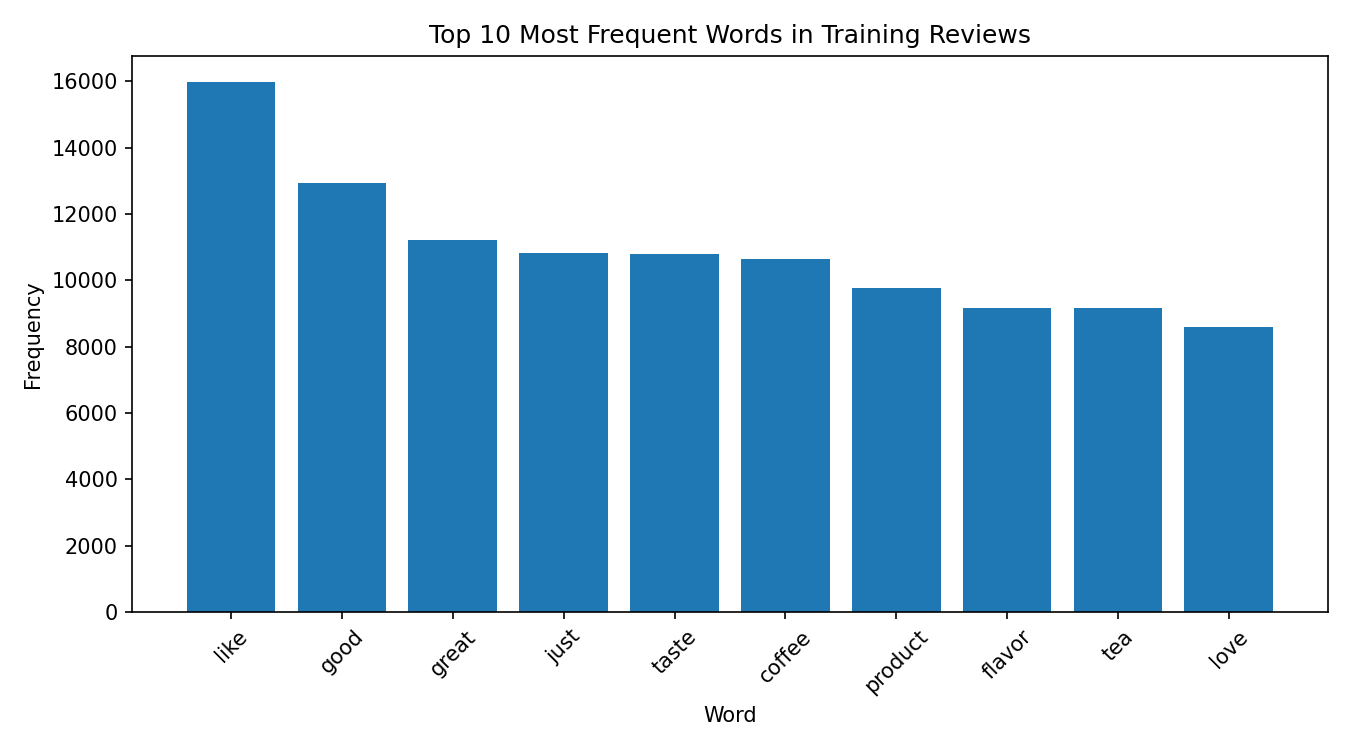
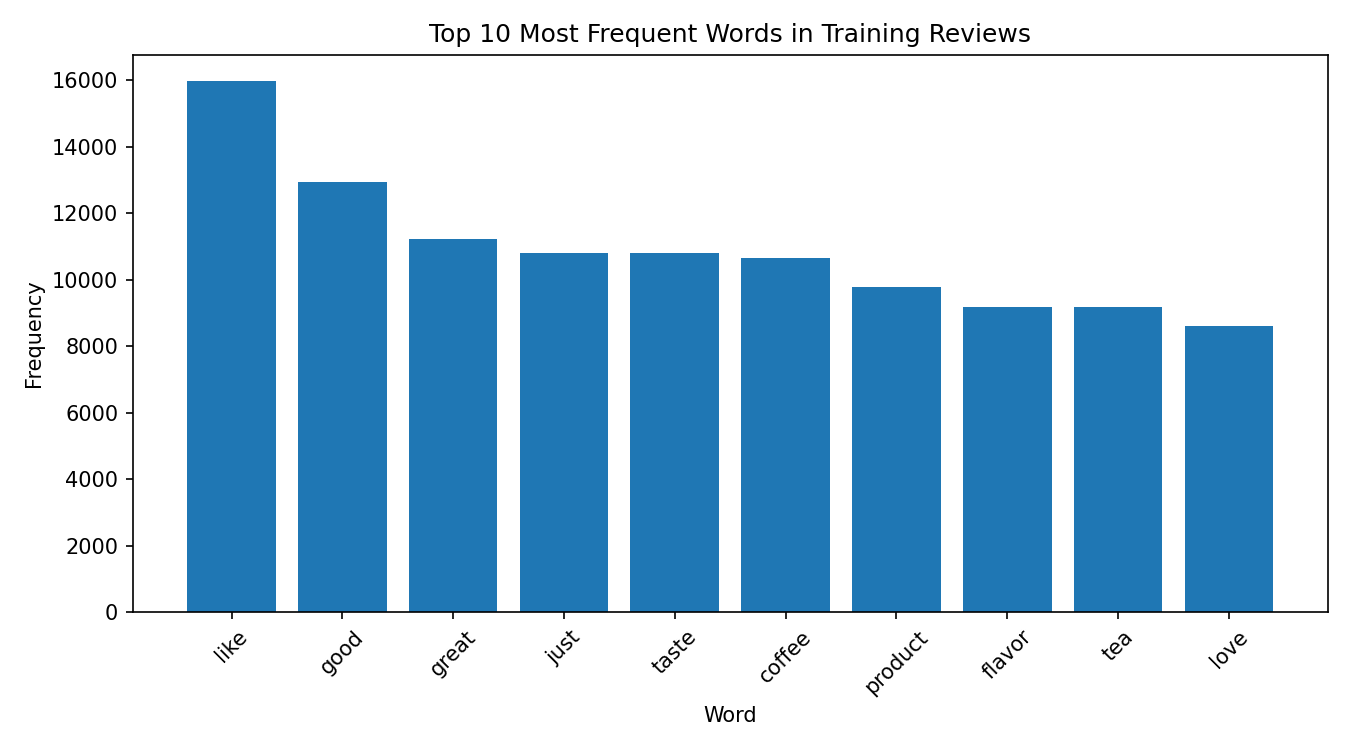
Changed lines where if it is creating new data to be used it saves it in the 'data' folder'
'

diff --git a/notebooks/preprocess.py b/notebooks/preprocess.py
@@ -4,7 +4,7 @@ import pandas as pd
 # Loads the sample from make_sample.py, then produces and turns it into a labeled dataset
 # for our binary sentiment classification (Positive vs. Negative)
 
-df = pd.read_csv('group_sample_seed42.csv')
+df = pd.read_csv('../data/group_sample_seed42.csv')
 print('Original sample:', len(df))
 
 df = df.dropna(subset=['Text', 'Score'])
@@ -12,7 +12,7 @@ df = df.drop_duplicates(subset=['UserId', 'ProductId', 'Text'])
 df = df[df['Score'] != 3].copy()
 
 df['Sentiment'] = (df['Score'] >= 4).astype(int)
-df.to_csv('cleaned_reviews.csv', index=False)
+df.to_csv('../data/cleaned_reviews.csv', index=False)
 print('Cleaned reviews:', len(df))
 print('Positive:', (df['Sentiment'] == 1).sum())
 print('Negative:', (df['Sentiment'] == 0).sum())

diff --git a/notebooks/make_sample.py b/notebooks/make_sample.py
@@ -1,7 +1,7 @@
 import pandas as pd
 
 #Using the random seed 42 and samples 50000, then writes sample to a new CSV
-df = pd.read_csv('Reviews.csv')
+df = pd.read_csv('../data/Reviews.csv')
 sample = df.sample(n=50000, random_state=42)
-sample.to_csv('group_sample_seed42.csv', index=False)
+sample.to_csv('../data/group_sample_seed42.csv', index=False)
 print('Saved group_sample_seed42.csv:', len(sample), 'reviews')

diff --git a/notebooks/feature_engineering.py b/notebooks/feature_engineering.py
@@ -11,7 +11,7 @@ from sklearn.feature_extraction.text import CountVectorizer, TfidfVectorizer
 
 # Inputs: cleaned_reviews.csv produced by preprocess.py
 # All modelers must reuse these exact train/test splits.
-df = pd.read_csv('cleaned_reviews.csv')
+df = pd.read_csv('../data/cleaned_reviews.csv')
 os.makedirs('outputs', exist_ok=True)
 
 def clean_text(text):

diff --git a/notebooks/README_DATA_ENGINEERING.md b/notebooks/README_DATA_ENGINEERING.md
@@ -9,6 +9,7 @@ Reproduce using the same seed, preprocessing, split, and vocabulary as the model
    The original `make_sample.py` / `preprocess.py` / `feature_engineering.py` scripts produce identical outputs, but they expect `Reviews.csv` next to them.
 
 ## Decisions
+
 - Sample original 568,454-row dataset first: `sample(n=50000, random_state=42)` (Group Alpha).
 - Drop missing `Text`/`Score` and exact duplicates on (`UserId`, `ProductId`, `Text`); do not deduplicate by user ID alone.
 - Drop 3-star (neutral/mixed) reviews.
@@ -19,6 +20,7 @@ Reproduce using the same seed, preprocessing, split, and vocabulary as the model
 - Both vectorizers use English stop words and `max_features=10000`.
 
 ## Outputs
+
 - `outputs/train.csv`, `outputs/test.csv`: same row ordering as features; labels in `Sentiment` column.
 - `outputs/X_train_bow.npz`, `X_test_bow.npz`: sparse count features.
 - `outputs/X_train_tfidf.npz`, `X_test_tfidf.npz`: sparse TF-IDF features.
@@ -26,6 +28,7 @@ Reproduce using the same seed, preprocessing, split, and vocabulary as the model
 - `outputs/word_frequency.png`: exploratory chart of frequent terms, not top predictive features.
 
 Example ML engineer loading:
+
 ```python
 import pandas as pd
 from scipy.sparse import load_npz
@@ -38,7 +41,9 @@ y_test = test['Sentiment']
 ```
 
 ## What to commit
+
 Commit the notebooks, this README, and optionally `outputs/word_frequency.png` to the public GitHub repository. Do not commit `Reviews.csv`, the sampled/cleaned CSVs, the split CSVs, the `.npz` matrices, or `.joblib` artifacts; these are generated locally (`.gitignore` already excludes everything in `notebooks/outputs/` except the chart). Share generated data privately if a teammate cannot run the scripts.
 
 ## To complete Milestone 2
+
 Classical ML Engineer: use these exact splits and produce model metrics, confusion matrix, and top 10 positive and negative informative features for EACH representation based on a documented method. Word frequency does not meet that last requirement. Analyst/Writer: integrate this data section into the milestone PDF; project lead handles timeline and progress logs.
